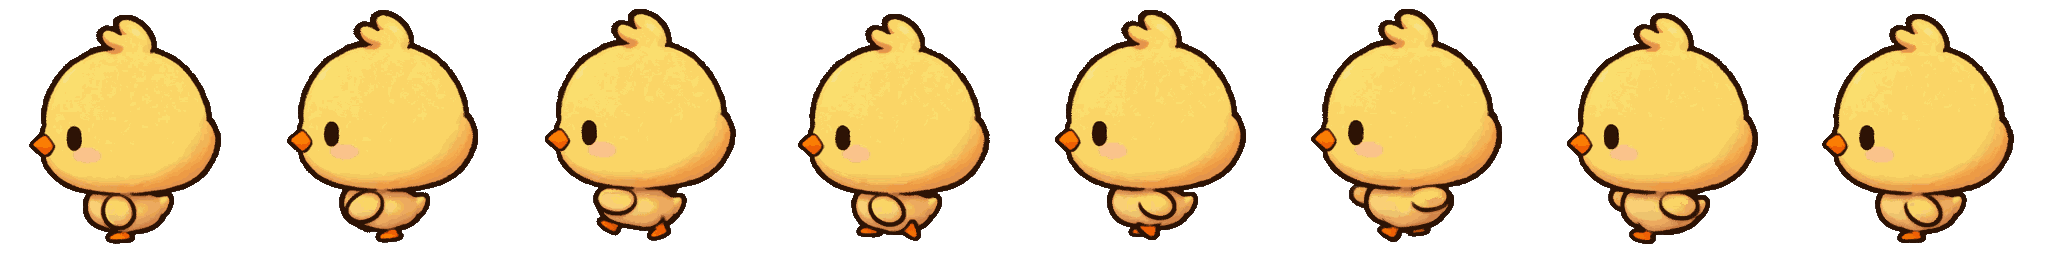
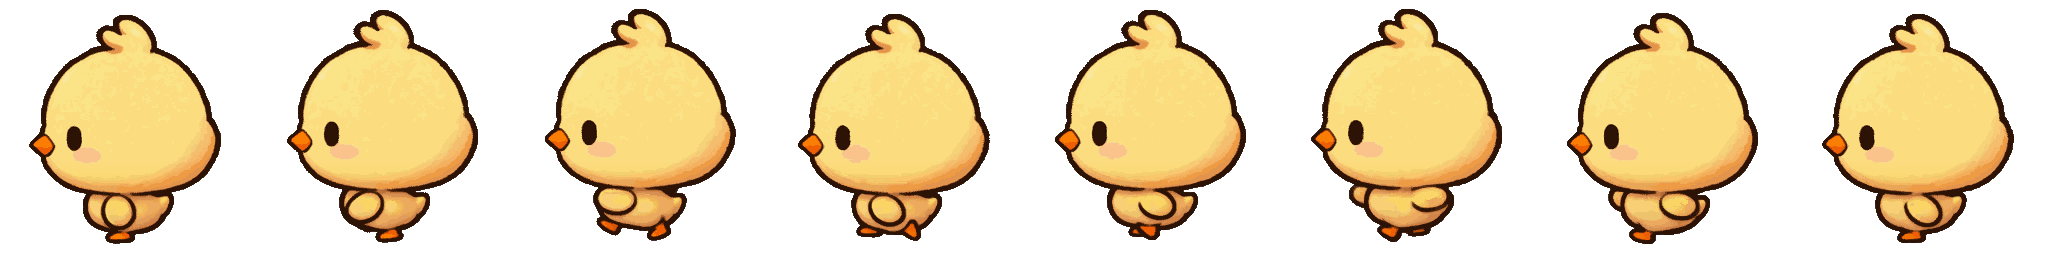
Brighten the chick's face in side views, pick up new run-north GIF
- tools/chick_frames.py: lighten the yellow feathers on the head for
  east/west frames (outline, eye, beak, cheeks untouched; fades out
  toward the body) so side views match the other directions
- Regenerate run-north from the newly uploaded GIF and drop the
  duplicate copy uploaded to the old art/source/running path

Claude-Session: https://claude.ai/code/session_01BAoMo9Axd7UnNPMPVGP3MA

Changed region(s): [[0.0, 0.0625, 1.0, 0.6562]]

diff --git a/tools/chick_frames.py b/tools/chick_frames.py
@@ -6,6 +6,7 @@
 결과는 프레임을 가로로 이어 붙인 PNG 한 장 (256×256 프레임 × N).
 파일 이름: <동작>-<방향>.png  (예: walk-south-east.png)
 """
+import colorsys
 from collections import deque
 from pathlib import Path
 
@@ -20,6 +21,11 @@ OUT = ROOT / "src" / "assets" / "chick"
 # 원본 폴더 이름 → 게임에서 쓰는 동작 이름
 ANIMS = {"walking": "walk", "running": "run"}
 DIRS = ["south-east", "south-west", "north-east", "north-west", "south", "north", "east", "west"]
+
+# 방향별 머리(얼굴) 노란색 밝기 보정. 옆모습 원본이 다른 방향보다 얼굴이 어둡게 나와서 맞춘다
+HEAD_LIGHTEN = {"east": 0.05, "west": 0.05}
+# 이 높이(px)까지는 보정을 다 하고, HEAD_FADE_END까지 점점 줄여 몸통과 경계가 안 생기게 한다
+HEAD_FADE_START, HEAD_FADE_END = 160, 200
 
 
 def dir_of(name: str):
@@ -64,6 +70,24 @@ def clean(frame: Image.Image):
     return frame
 
 
+def lighten_head(frame: Image.Image, amount: float):
+    """노란 깃털만 밝게 한다 (외곽선·눈·부리·볼은 그대로)"""
+    w, h = frame.size
+    px = frame.load()
+    for y in range(min(h, HEAD_FADE_END)):
+        k = 1.0 if y <= HEAD_FADE_START else (HEAD_FADE_END - y) / (HEAD_FADE_END - HEAD_FADE_START)
+        for x in range(w):
+            r, g, b, a = px[x, y]
+            if a == 0:
+                continue
+            hue, light, sat = colorsys.rgb_to_hls(r / 255, g / 255, b / 255)
+            if not (0.09 < hue < 0.19 and light > 0.35):
+                continue
+            r2, g2, b2 = colorsys.hls_to_rgb(hue, min(1.0, light + amount * k), sat)
+            px[x, y] = (round(r2 * 255), round(g2 * 255), round(b2 * 255), a)
+    return frame
+
+
 def main():
     OUT.mkdir(parents=True, exist_ok=True)
     for folder, anim in ANIMS.items():
@@ -77,7 +101,10 @@ def main():
             strip = Image.new("RGBA", (w * gif.n_frames, h))
             for i in range(gif.n_frames):
                 gif.seek(i)
-                strip.paste(clean(gif.convert("RGBA")), (i * w, 0))
+                frame = clean(gif.convert("RGBA"))
+                if d in HEAD_LIGHTEN:
+                    lighten_head(frame, HEAD_LIGHTEN[d])
+                strip.paste(frame, (i * w, 0))
             strip.save(OUT / f"{anim}-{d}.png", optimize=True)
             print(f"{anim}-{d}.png  {gif.n_frames}프레임")
 
